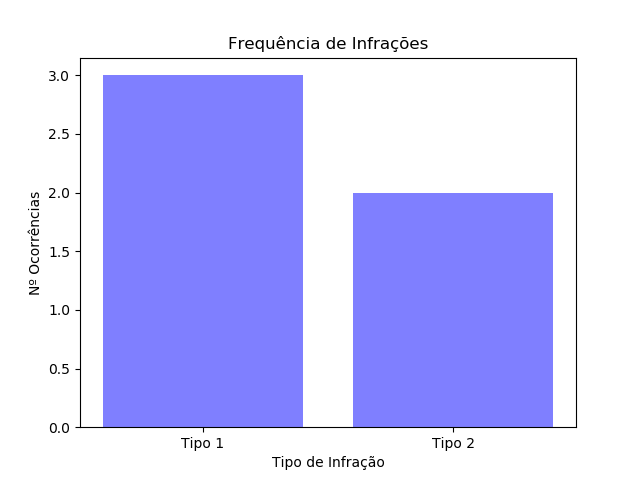
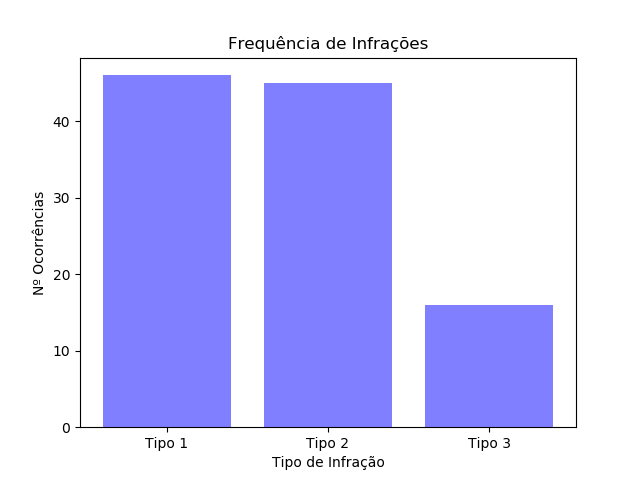
Infraction classification wasn't considering values between 0 and 1.

diff --git a/Application.py b/Application.py
@@ -38,7 +38,7 @@ class Application:
 
         self.prob_inf = [0.5, 0.5]
         self.inf_all_types = [20, 49, 100]
-        self.prob_inf_type = [0.6, 0.3, 0.1]
+        self.prob_inf_type = [0.3, 0.3, 0.3]
         self.lower_bound = {
             20: 1,
             49: 21,
@@ -187,6 +187,7 @@ class Application:
         generated_time = self.gerar_time_span()
 
         # no bad behavior generated, no reading
+        print(generated_time)
         if generated_time == 0:
             return None
 
@@ -249,6 +250,12 @@ class Application:
         :param infracao: size of the infraction, in %
         :return:
         """
+        print(f"Percent {infracao}")
+        if infracao < 1:
+            infracao = 1
+        elif infracao > 100:
+            infracao = 100
+
         if self.lower_bound[self.inf_all_types[0]] <= infracao <= self.inf_all_types[0]:
             return "Tipo 1"
         elif self.lower_bound[self.inf_all_types[1]] <= infracao <= self.inf_all_types[1]:

diff --git a/Interface.py b/Interface.py
@@ -351,7 +351,7 @@ class CadastroLeitora:
 
         self.leitoras_cadastradas = self.app.get_leitoras_registradas()
 
-        row = 0
+        row = 1
         for registro in self.leitoras_cadastradas:
 
             self.tabela_leitoras.insert("", row, iid=int(row), values=[registro[0], registro[1], registro[2], registro[3]])
@@ -365,7 +365,8 @@ class CadastroLeitora:
         :return:
         """
 
-        index = int(self.tabela_leitoras.selection()[0])
+        print(self.tabela_leitoras.selection())
+        index = int(self.tabela_leitoras.selection()[0]) - 1
 
         carro = self.leitoras_cadastradas[index]
 
@@ -580,6 +581,8 @@ class TelaPrincipal:
             if output is not None:
                 self.debugg.insert(END, output)
                 self.plot_grafico()
+
+            # time.sleep(1)
 
     def plot_grafico(self):
 
